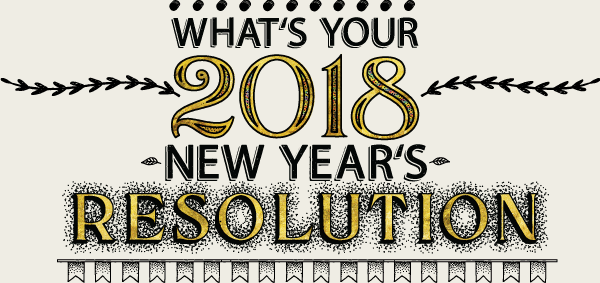
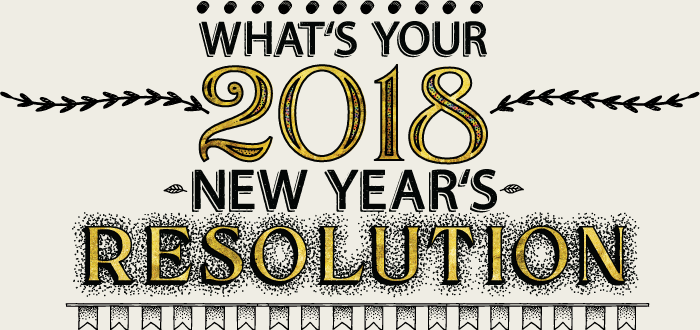
updates

Changed region(s): [[0.0, 0.0, 1.0, 1.0]]

diff --git a/index.html b/index.html
@@ -79,49 +79,36 @@ e.async=true;var t=document.getElementsByTagName("script")[0];t.parentNode.inser
 <!-- pinterest - do not remove -->
 <link href="https://fonts.googleapis.com/css?family=Imprima|Caveat" rel="stylesheet">
 <style>
-.year-bg {
-	background: #364473 url(year-in-review-background.jpg)no-repeat center center/cover;
+.new-year {
+	background-color: #efede4;
+	padding: 10px 0 30px;
 }
-.year-wrapper {
-	margin: -18px auto 60px auto;
-	padding: 5px 3px;
-	background-color: #fff;
-	border: 15px solid #F26B4C;
-	border-radius: 18px;
-	max-width: 550px;
-	box-shadow: 8px 8px 0px rgba(0,0,0,.3);
+.camp-wrapper {
+	background: #BC9C4A url(camp-background.jpg);
+	padding: 10px 0 30px;
 }
-.year-wrapper h1 {
-	font-family: 'Imprima', sans-serif;
-	font-size: 44px;
-	margin: 10px 0;
-	line-height: .8em;
+.year-link a {
+	color: #776624;
 }
-.year-wrapper a {
-	color: #0B494D;
+.year-link a:hover {
+	color: #c3a62d;
+}
+.camp-text {
+	text-shadow: 0px 2px 2px rgba(0, 0, 0, 0.8);
 }
 .featured {
-	background-color: #14555a;
+	background-color: #444;
 }
-.featured .material-icons {
-	font-size: 56px;
-	padding-top: 20px;
-}
-.scale-in-top {
-	-webkit-animation: scale-in-top .5s cubic-bezier(0.250, 0.460, 0.450, 0.940) 0.8s both;
-	animation: scale-in-top .5s cubic-bezier(0.250, 0.460, 0.450, 0.940) 0.8s both;
-}
-.bounce-in-top {
-	-webkit-animation: bounce-in-top 0.9s both;
-	animation: bounce-in-top 0.9s both;
+.cream, .cream a {
+	color: #fbfae7
 }
 .text-focus-one {
-	-webkit-animation: text-focus-one 0.5s cubic-bezier(0.550, 0.085, 0.680, 0.530) 1.3s both;
-	animation: text-focus-one 0.5s cubic-bezier(0.550, 0.085, 0.680, 0.530) 1.3s both;
+	-webkit-animation: text-focus-one 0.5s cubic-bezier(0.550, 0.085, 0.680, 0.530) .2s both;
+	animation: text-focus-one 0.5s cubic-bezier(0.550, 0.085, 0.680, 0.530) .2s both;
 }
 .text-focus-two {
-	-webkit-animation: text-focus-two 0.5s cubic-bezier(0.550, 0.085, 0.680, 0.530) 2s both;
-	animation: text-focus-two 0.5s cubic-bezier(0.550, 0.085, 0.680, 0.530) 2s both;
+	-webkit-animation: text-focus-two 0.5s cubic-bezier(0.550, 0.085, 0.680, 0.530) .6s both;
+	animation: text-focus-two 0.5s cubic-bezier(0.550, 0.085, 0.680, 0.530) .6s both;
 }
 .donate-wrapper {
 	font-family: 'Caveat', cursive;
@@ -147,146 +134,6 @@ e.async=true;var t=document.getElementsByTagName("script")[0];t.parentNode.inser
 .grow:hover, .grow a:visited, .grow a:hover, .grow a:active {
 	transform: scale(1.05);
 	text-decoration: none;
-}
-
-/* ----------------------------------------------
- * Generated by Animista on 2017-12-19 11:37:35
- * w: http://animista.net, t: @cssanimista
- * ---------------------------------------------- */
-
-@-webkit-keyframes scale-in-top {
- 0% {
- -webkit-transform: scale(0);
- transform: scale(0);
- -webkit-transform-origin: 50% 0%;
- transform-origin: 50% 0%;
- opacity: 1;
-}
- 100% {
- -webkit-transform: scale(1);
- transform: scale(1);
- -webkit-transform-origin: 50% 0%;
- transform-origin: 50% 0%;
- opacity: 1;
-}
-}
-@keyframes scale-in-top {
- 0% {
- -webkit-transform: scale(0);
- transform: scale(0);
- -webkit-transform-origin: 50% 0%;
- transform-origin: 50% 0%;
- opacity: 1;
-}
- 100% {
- -webkit-transform: scale(1);
- transform: scale(1);
- -webkit-transform-origin: 50% 0%;
- transform-origin: 50% 0%;
- opacity: 1;
-}
-}
-@-webkit-keyframes bounce-in-top {
- 0% {
- -webkit-transform: translateY(-500px);
- transform: translateY(-500px);
- -webkit-animation-timing-function: ease-in;
- animation-timing-function: ease-in;
- opacity: 0;
-}
- 38% {
- -webkit-transform: translateY(0);
- transform: translateY(0);
- -webkit-animation-timing-function: ease-out;
- animation-timing-function: ease-out;
- opacity: 1;
-}
- 55% {
- -webkit-transform: translateY(-65px);
- transform: translateY(-65px);
- -webkit-animation-timing-function: ease-in;
- animation-timing-function: ease-in;
-}
- 72% {
- -webkit-transform: translateY(0);
- transform: translateY(0);
- -webkit-animation-timing-function: ease-out;
- animation-timing-function: ease-out;
-}
- 81% {
- -webkit-transform: translateY(-28px);
- transform: translateY(-28px);
- -webkit-animation-timing-function: ease-in;
-}
- 90% {
- -webkit-transform: translateY(0);
- transform: translateY(0);
- -webkit-animation-timing-function: ease-out;
- animation-timing-function: ease-out;
-}
- 95% {
- -webkit-transform: translateY(-8px);
- transform: translateY(-8px);
- -webkit-animation-timing-function: ease-in;
- animation-timing-function: ease-in;
-}
- 100% {
- -webkit-transform: translateY(0);
- transform: translateY(0);
- -webkit-animation-timing-function: ease-out;
- animation-timing-function: ease-out;
-}
-}
-@keyframes bounce-in-top {
- 0% {
- -webkit-transform: translateY(-500px);
- transform: translateY(-500px);
- -webkit-animation-timing-function: ease-in;
- animation-timing-function: ease-in;
- opacity: 0;
-}
- 38% {
- -webkit-transform: translateY(0);
- transform: translateY(0);
- -webkit-animation-timing-function: ease-out;
- animation-timing-function: ease-out;
- opacity: 1;
-}
- 55% {
- -webkit-transform: translateY(-65px);
- transform: translateY(-65px);
- -webkit-animation-timing-function: ease-in;
- animation-timing-function: ease-in;
-}
- 72% {
- -webkit-transform: translateY(0);
- transform: translateY(0);
- -webkit-animation-timing-function: ease-out;
- animation-timing-function: ease-out;
-}
- 81% {
- -webkit-transform: translateY(-28px);
- transform: translateY(-28px);
- -webkit-animation-timing-function: ease-in;
-}
- 90% {
- -webkit-transform: translateY(0);
- transform: translateY(0);
- -webkit-animation-timing-function: ease-out;
- animation-timing-function: ease-out;
-}
- 95% {
- -webkit-transform: translateY(-8px);
- transform: translateY(-8px);
- -webkit-animation-timing-function: ease-in;
- animation-timing-function: ease-in;
-}
- 100% {
- -webkit-transform: translateY(0);
- transform: translateY(0);
- -webkit-animation-timing-function: ease-out;
- animation-timing-function: ease-out;
-}
 }
  @-webkit-keyframes text-focus-one {
  0% {
@@ -522,35 +369,27 @@ height="0" width="0" style="display:none;visibility:hidden"></iframe>
     <div id="global-alert" class="container-md" style="display:none;"></div>
   </div>
   <!-- InstanceBeginEditable name="Content" -->
-  <div class="row year-bg">
+  <div class="row new-year">
     <div class="container text-center">
-      <div class="padding-top-30"><img class="img-responsive image-center bounce-in-top" src="year-in-review.png" alt="2017 Year in Review">
-        <div class="year-wrapper scale-in-top">
-          <h1 class="text-focus-one grow"><a href="https://blogs.douglascountylibraries.org/blog/2017/12/15/thank-you-notes-dcl-style/">A Bookish Look Back</a></h1>
-          <h1 class="text-focus-two grow"><a href="https://dcl.bibliocommons.com/list/share/692278051_dcladults/1039845827">Best Books of 2017</a></h1>
-        </div>
+      <div class="padding-top-30"> <img class="img-responsive image-center hidden-xs" src="new-years.png" alt="New Year's Resolution"> <img class="img-responsive image-center hidden-sm hidden-md hidden-lg" src="new-years-small.png" alt="New Year's Resolution">
+        <h1 class="year-link text-focus-one grow text-uppercase font-weight-500"><a href="https://blogs.douglascountylibraries.org/blog/2017/12/28/dcls-most-popular-checkouts-in-2017/">Top Checkouts of 2017</a></h1>
+        <h1 class="year-link text-focus-two grow text-uppercase font-weight-500 no-margin-top"><a href="reading-challenge/">Take the 2018 Reading Challenge</a></h1>
       </div>
     </div>
   </div>
-  <div class="row"><div class="donate-wrapper"> <a href="https://www.coloradogives.org/index.php?section=organizations&action=newDonation&fwID=36788" target="_blank">
-    <div class="grow">Inspire the love of reading, discovery and connection with your tax-deductible gift. <span class="text-underline">Donate now!</span></div>
-	  </a> </div></div>
-  <div class="row featured padding-top-20 padding-bottom-20">
+  <div class="row camp-wrapper">
     <div class="container">
-      <div class="col-md-4 text-center padding-left-30 padding-right-30 padding-top-15 padding-bottom-15">
-        <div style="padding:0 0 0 0;" class="icon-circle-default"><i class="material-icons">toys</i></div>
-        <h2 class="roboto no-margin-bottom"><a class="white" href="https://blogs.douglascountylibraries.org/blog/2017/12/15/new-years-party-crafts-for-kids/">Make Some Noise</a></h2>
-        <div class="text-uppercase no-margin-top"><a class="white text-uppercase font-weight-400" href="https://blogs.douglascountylibraries.org/blog/2017/12/15/new-years-party-crafts-for-kids/">NYE Kids Crafts </a></div>
-      </div>
-      <div class="col-md-4 text-center padding-left-30 padding-right-30 padding-top-15 padding-bottom-15">
-        <div style="padding:0 0 0 0;" class="icon-circle-default"><i class="material-icons">queue_music</i></div>
-        <h2 class="roboto no-margin-bottom"><a class="white" href="https://blogs.douglascountylibraries.org/blog/2017/12/18/nye-party-soundtrack/">Celebrate!</a></h2>
-        <div class="text-uppercase no-margin-top"><a href="https://blogs.douglascountylibraries.org/blog/2017/12/18/nye-party-soundtrack/" class="white text-uppercase font-weight-400">Party Tunes </a></div>
-      </div>
-      <div class="col-md-4 text-center padding-left-30 padding-right-30 padding-top-15 padding-bottom-15">
-        <div style="padding:1px 0 0 1px;" class="icon-circle-default"><i class="fa fa-compass"></i></div>
-        <h2 class="roboto no-margin-bottom"><a href="http://www.eventkeeper.com/code/events.cfm?curOrg=dclibs&curapp=passes" target="_blank" class="white">Winter Break Fun</a></h2>
-        <div class="text-uppercase no-margin-top"><a href="http://www.eventkeeper.com/code/events.cfm?curOrg=dclibs&curapp=passes" target="_blank" class="white text-uppercase font-weight-400">Adventure Pass </a></div>
+      <h2 class="camp-text white text-center font-weight-500">Camp DCL spring break camps, March 19-23, now on sale!</h2>
+      <h3 class="grow camp-text white text-uppercase text-center font-weight-500 no-margin-top "><a class="white grow" href="camp-dcl/">Learn More &raquo;</a></h3>
+    </div>
+  </div>
+  <div class="row featured padding-top-30 padding-bottom-30">
+    <div class="container">
+      <div class="col-md-6"><img class="img-responsive image-center" src="jojo.png" alt="Jojo Moyes"></div>
+      <div class="col-md-6">
+        <h4 class="roboto cream">DCL Presents: Jojo Moyes</h4>
+        <div class="cream">The bestselling author of <a class="text-underline" href="https://dcl.bibliocommons.com/item/show/1079703114"><i>Me Before You</i></a> will talk about her new Louisa Clark novel, <i>Still Me</i>. Monday, February 5, 7PM.</div>
+        <div class="margin-top-15"><a href="https://www.eventbrite.com/e/dcl-presents-jojo-moyes-tickets-39126670926?aff=WebsiteHome" target="_blank" class="btn btn-warning text-uppercase">Buy Now!</a></div>
       </div>
     </div>
   </div>
